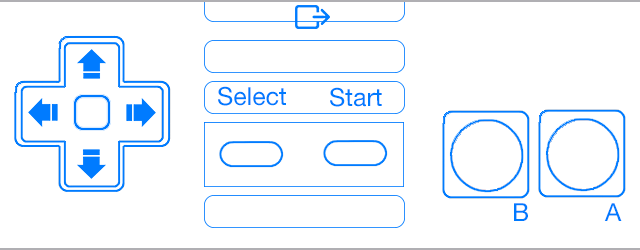
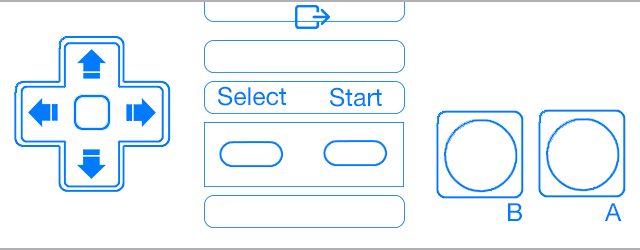
minor portrait controller tweaks

Changed region(s): [[0.6562, 0.448, 0.8438, 0.812], [0.7812, 0.812, 0.8438, 0.896]]

diff --git a/Classes/ControllerView.m b/Classes/ControllerView.m
@@ -98,9 +98,9 @@
 			UR     = CGRectMake( 62.0,  0.0,   32.0,  38.0);
 			DL     = CGRectMake(  0.0,  76.0,  32.0,  49.0);
 			DR     = CGRectMake( 62.0,  76.0,  32.0,  49.0);
-			B      = CGRectMake(197.0,  27.0,  46.0,  72.0);
-			A      = CGRectMake(268.0,  27.0,  46.0,  72.0);
-			AB     = CGRectMake(243.0,  27.0,  25.0,  72.0);
+			B      = CGRectMake(210.0,  40.0,  49.0,  85.0);
+			A      = CGRectMake(272.0,  40.0,  49.0,  85.0);
+			AB     = CGRectMake(260.0,  40.0,  12.0,  85.0);
 			Select = CGRectMake(110.0,  50.0,  36.0,  40.0);
 			Start  = CGRectMake(155.0,  50.0,  36.0,  40.0);
 			Exit   = CGRectMake(102.0,   0.0, 100.0,  25.0);
